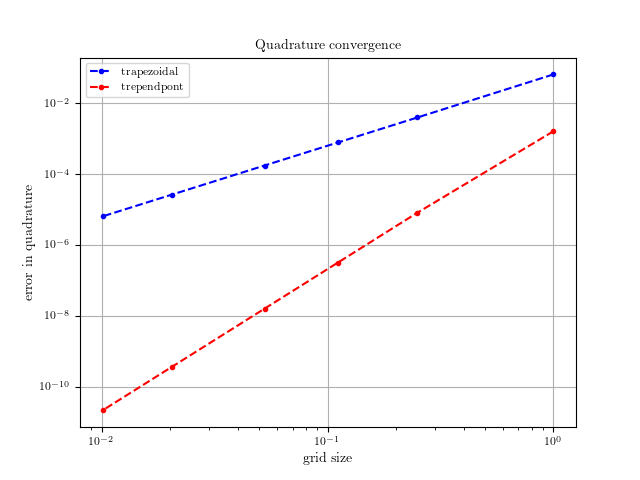
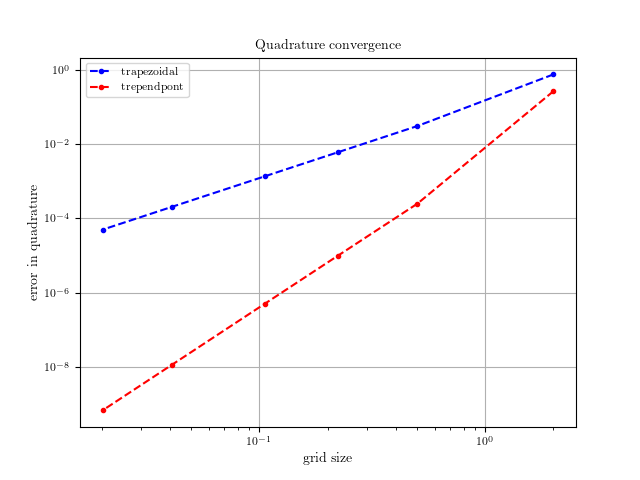
script to implement the different quadrature and see how the error behaves

diff --git a/Endsem/Scripts/program6.py b/Endsem/Scripts/program6.py
@@ -3,7 +3,7 @@
 # Name: D.Saravanan
 # Date: 02/12/2021
 
-""" Script to implement the different quadrature """
+""" Script to implement the different quadrature and see how the error behaves """
 
 import matplotlib
 import matplotlib.pyplot as plt
@@ -23,20 +23,20 @@ matplotlib.rcParams["text.usetex"] = True
 matplotlib.use("Agg")
 
 # end points of interval
-a, b = 0, 1
+a, b = -1, 1
 
 # function to be integrated
 def f(x):
-    return np.exp(-(x ** 2))
+    return np.exp(-(x**2))
 
 
 # derivative of the function
 def g(x):
-    return -2 * x * np.exp(-(x ** 2))
+    return -2 * x * np.exp(-(x**2))
 
 
 # exact value of the integral
-exact = 0.746824132812427025399
+exact = 1.49364826562485405080
 
 # number of grid points
 N = [2, 5, 10, 20, 50, 100]
